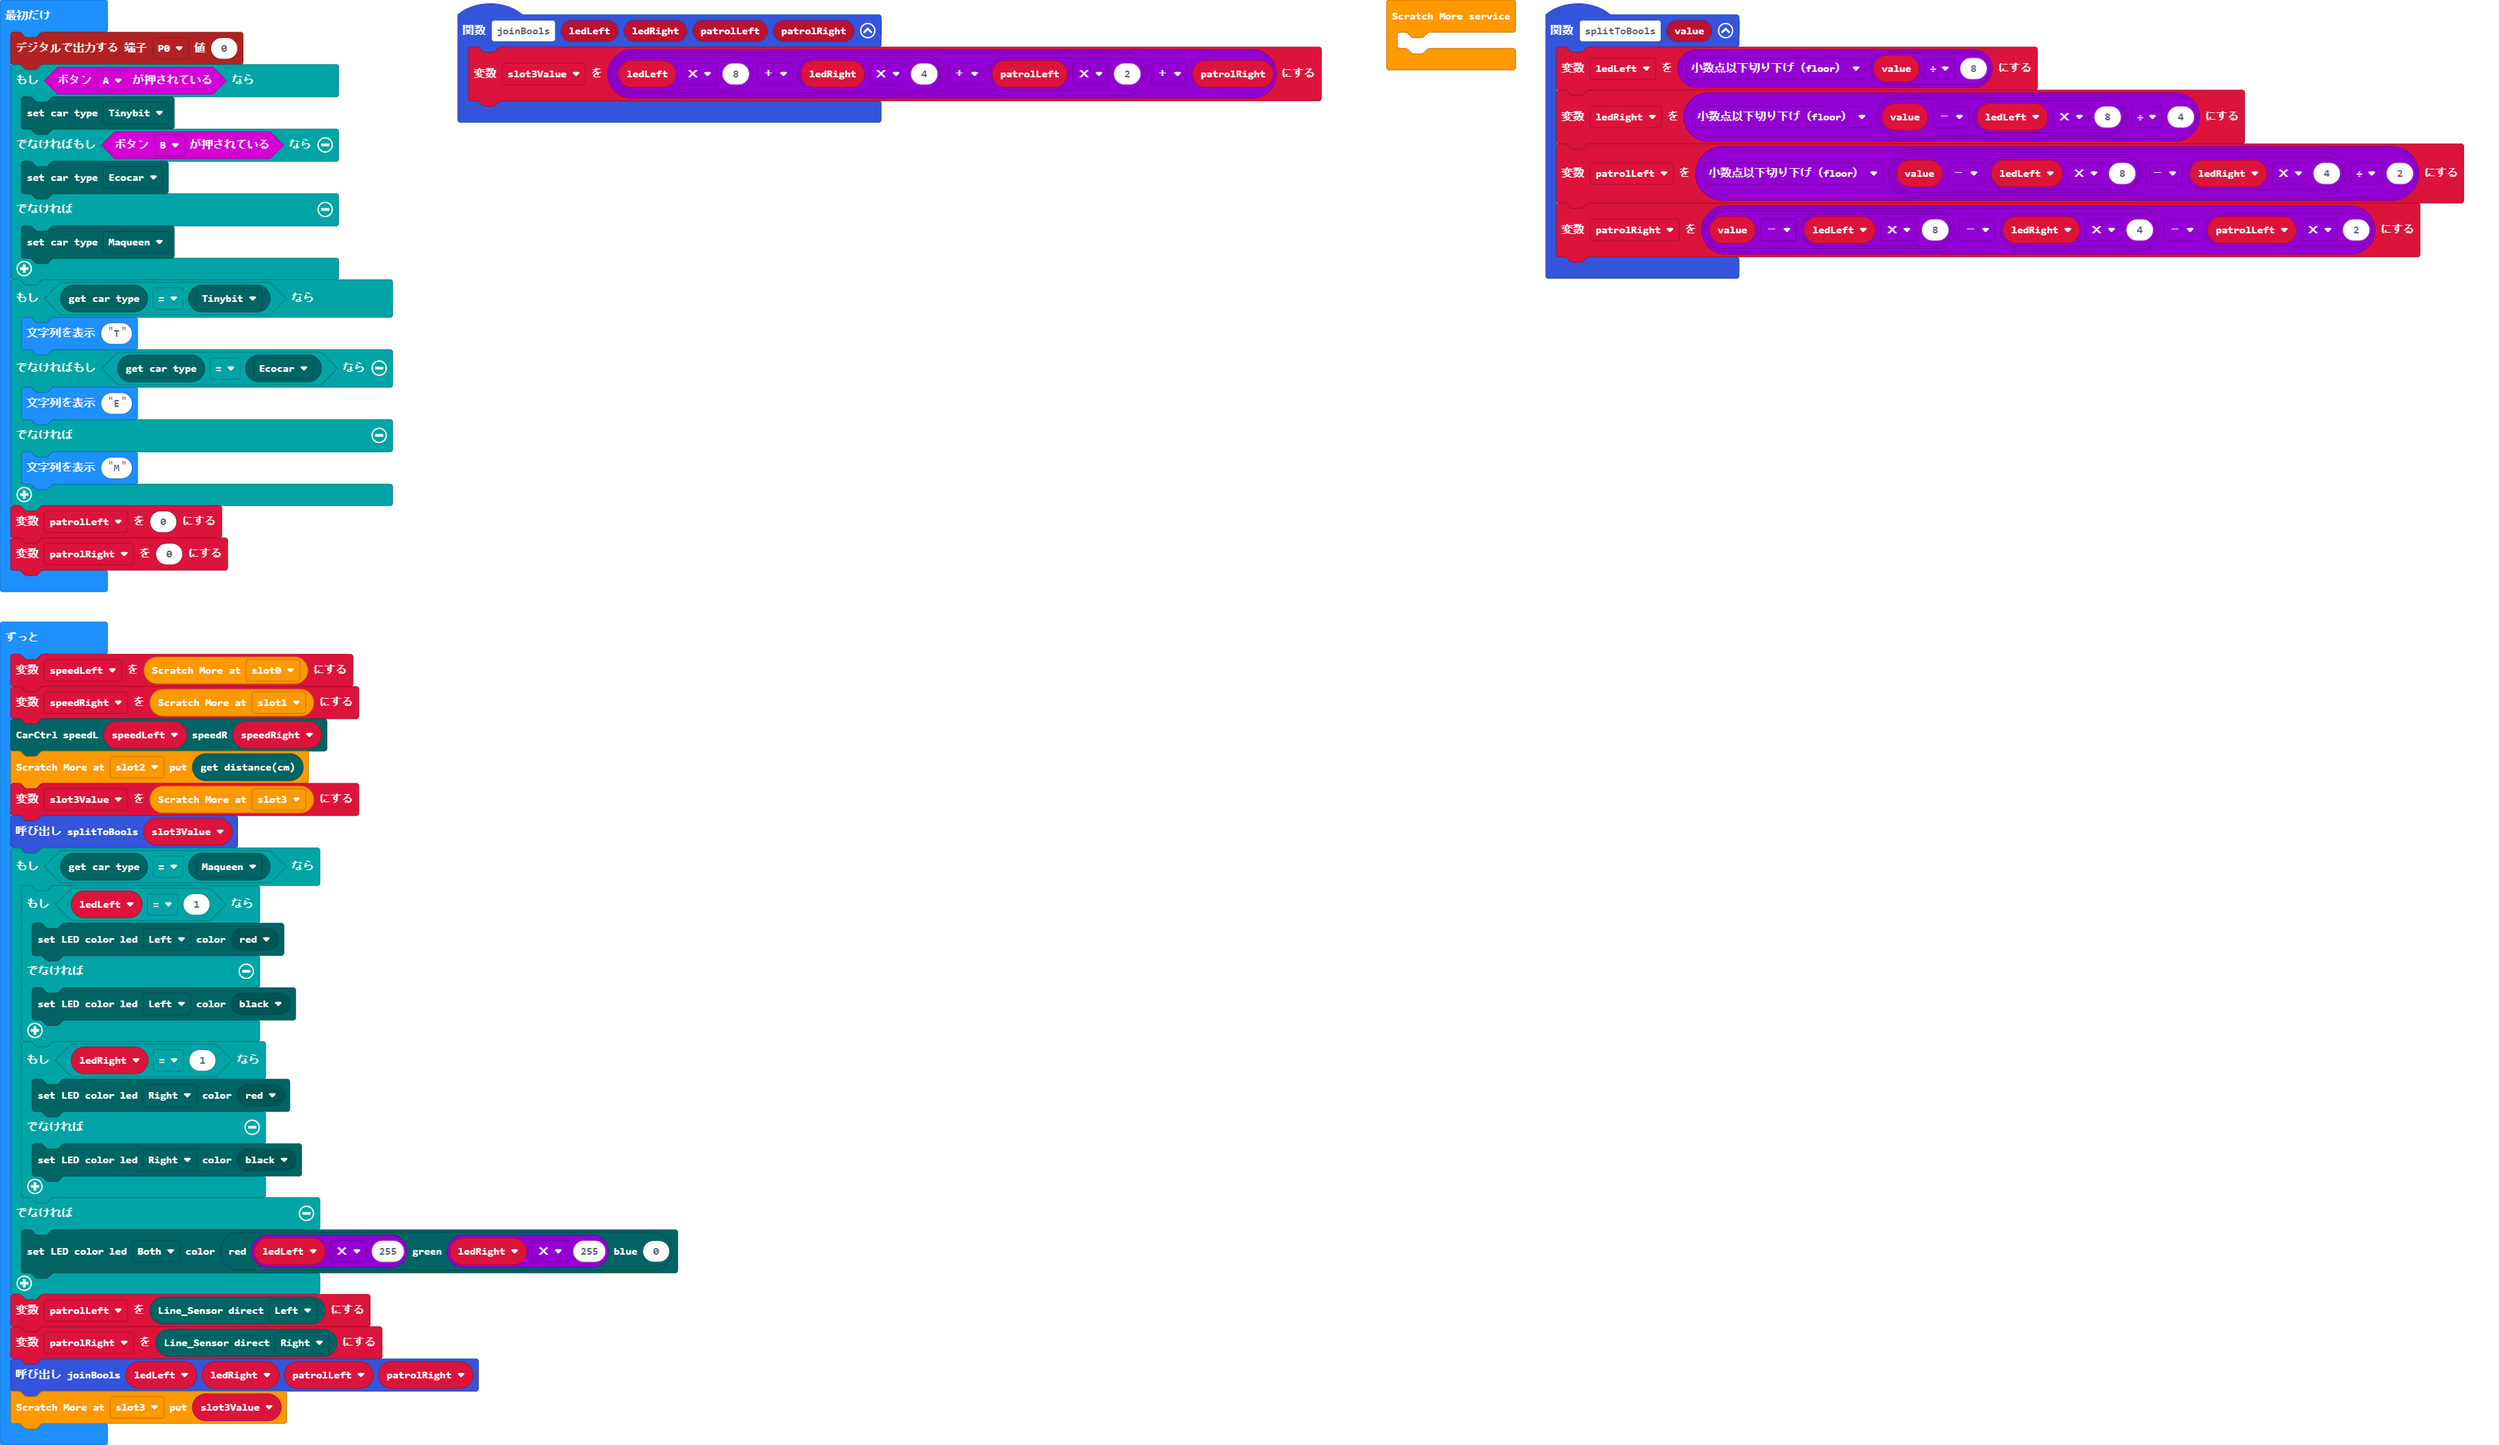
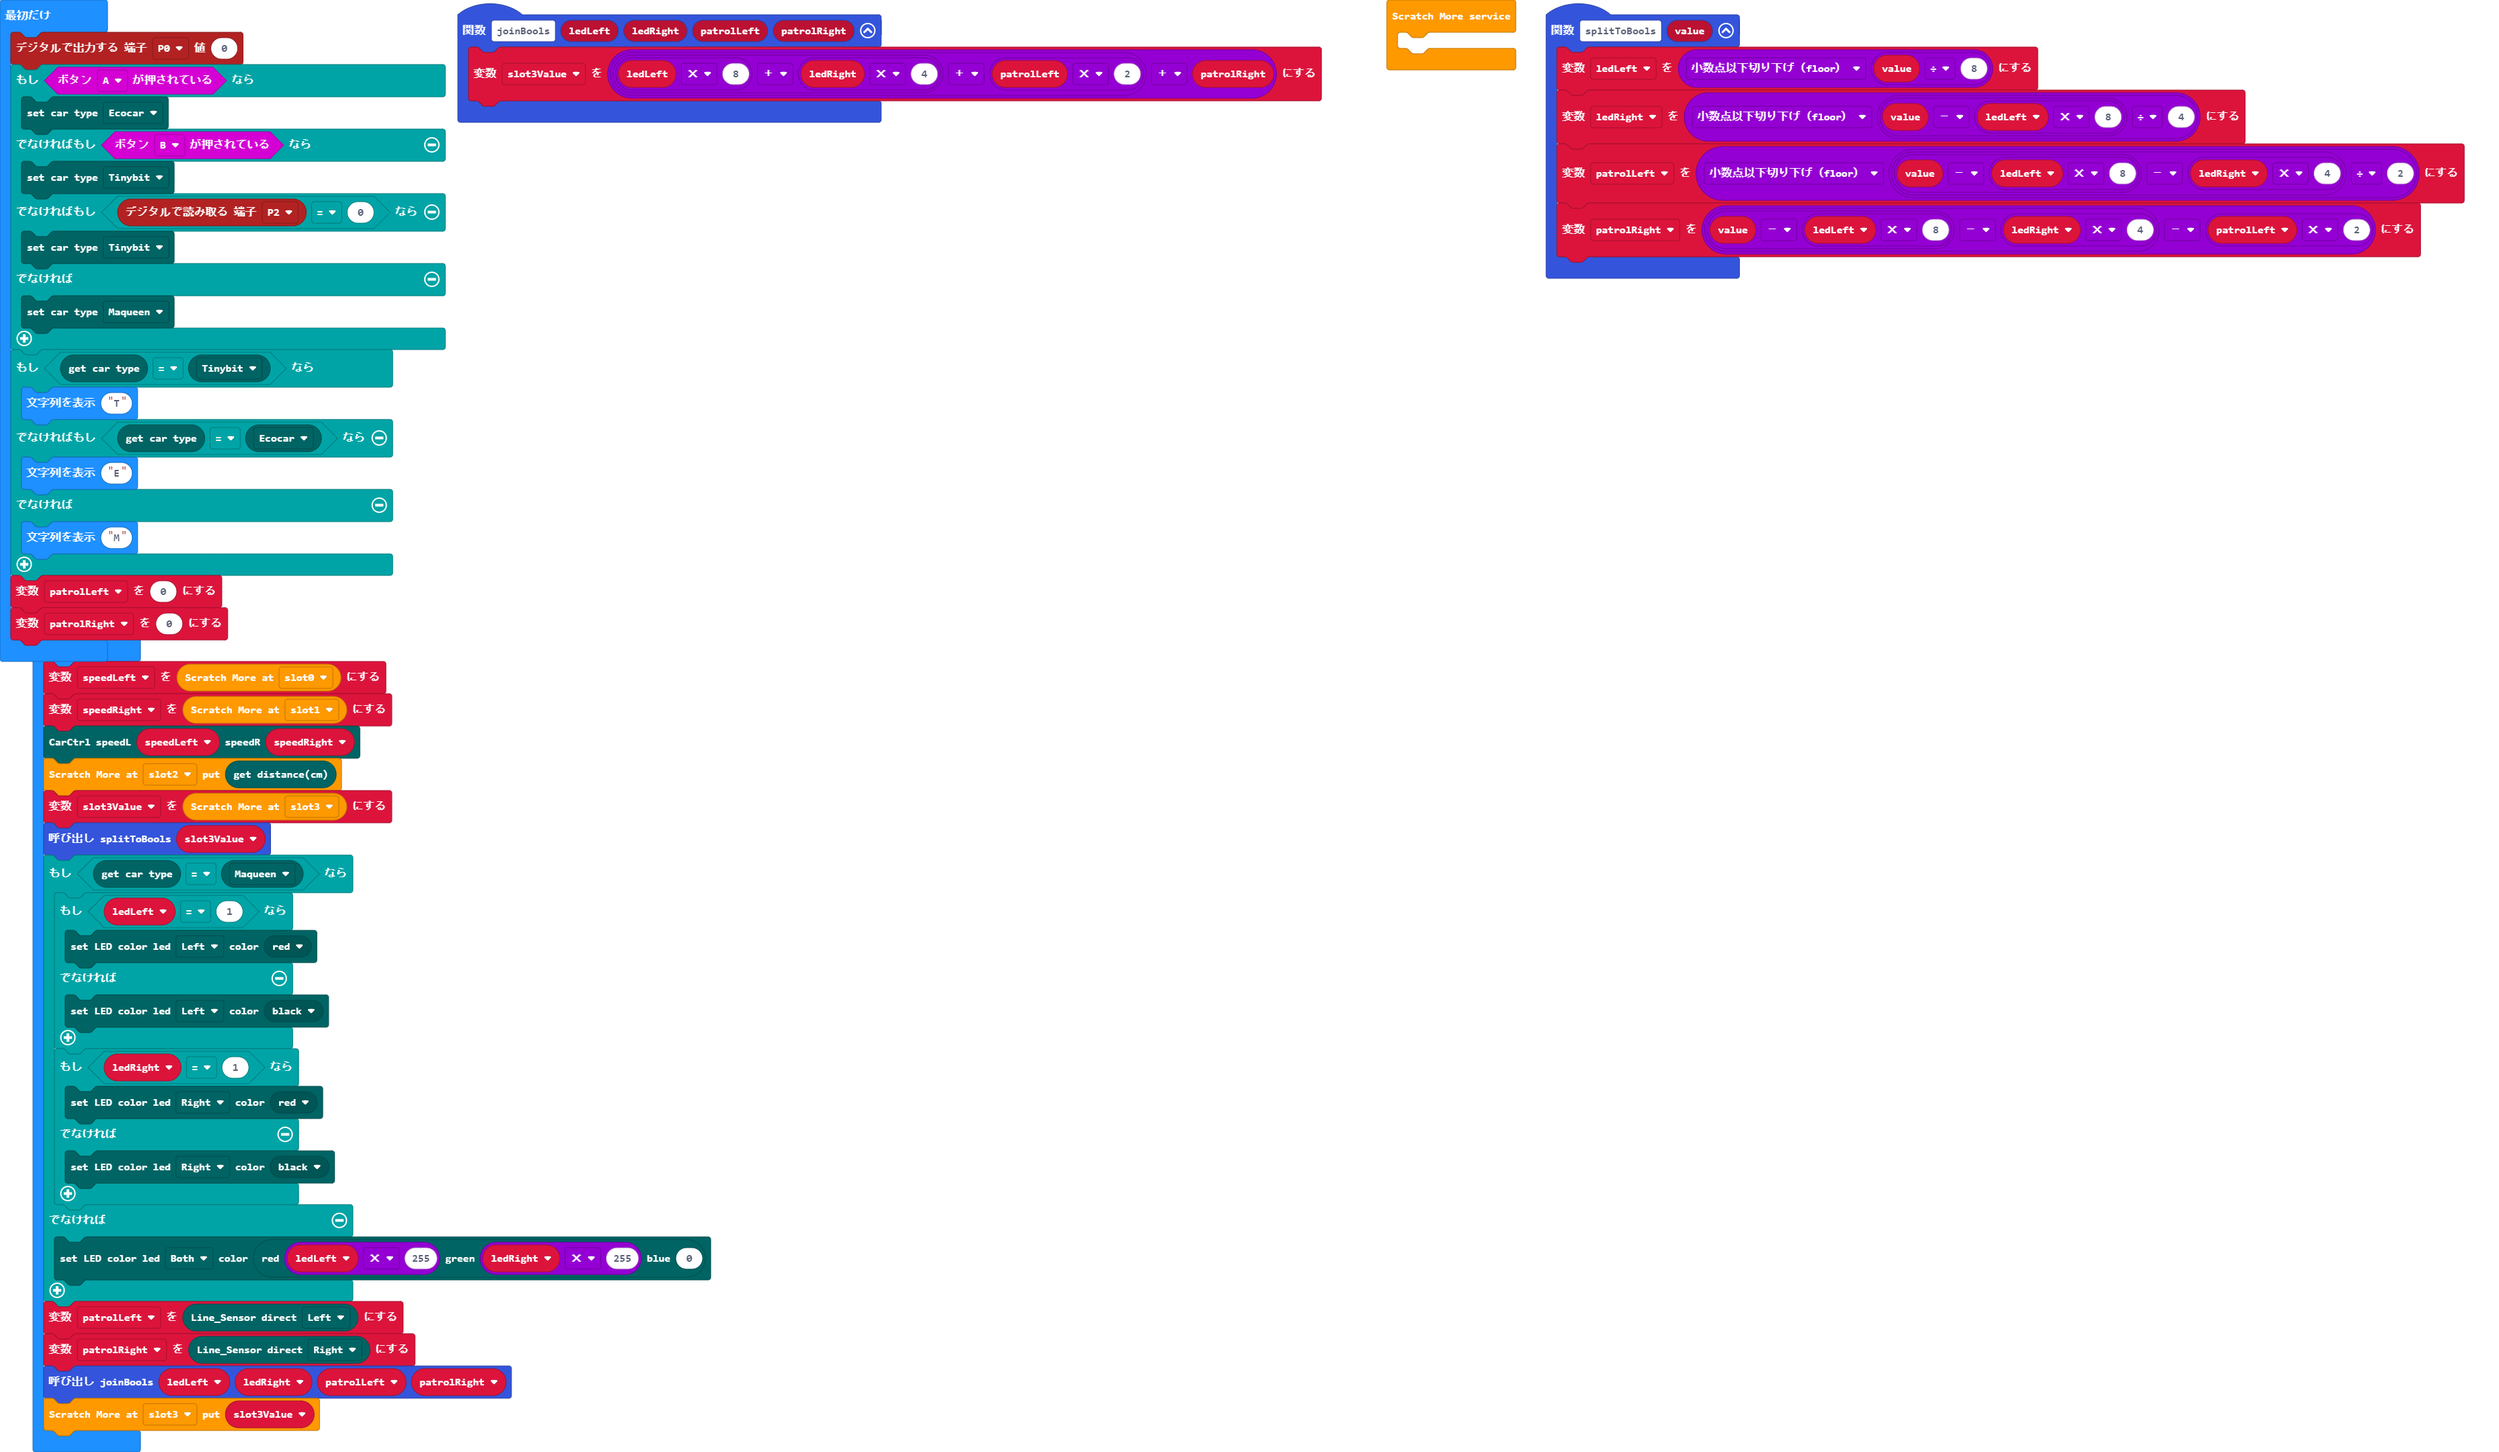
Update main.blocks, main.ts

diff --git a/main.ts b/main.ts
@@ -19,9 +19,11 @@ let patrolRight = 0
 let patrolLeft = 0
 pins.digitalWritePin(DigitalPin.P0, 0)
 if (input.buttonIsPressed(Button.A)) {
-    carcotrol.setCarType(carType.Tinybit)
-} else if (input.buttonIsPressed(Button.B)) {
     carcotrol.setCarType(carType.Ecocar)
+} else if (input.buttonIsPressed(Button.B)) {
+    carcotrol.setCarType(carType.Tinybit)
+} else if (pins.digitalReadPin(DigitalPin.P2) == 0) {
+    carcotrol.setCarType(carType.Tinybit)
 } else {
     carcotrol.setCarType(carType.Maqueen)
 }
